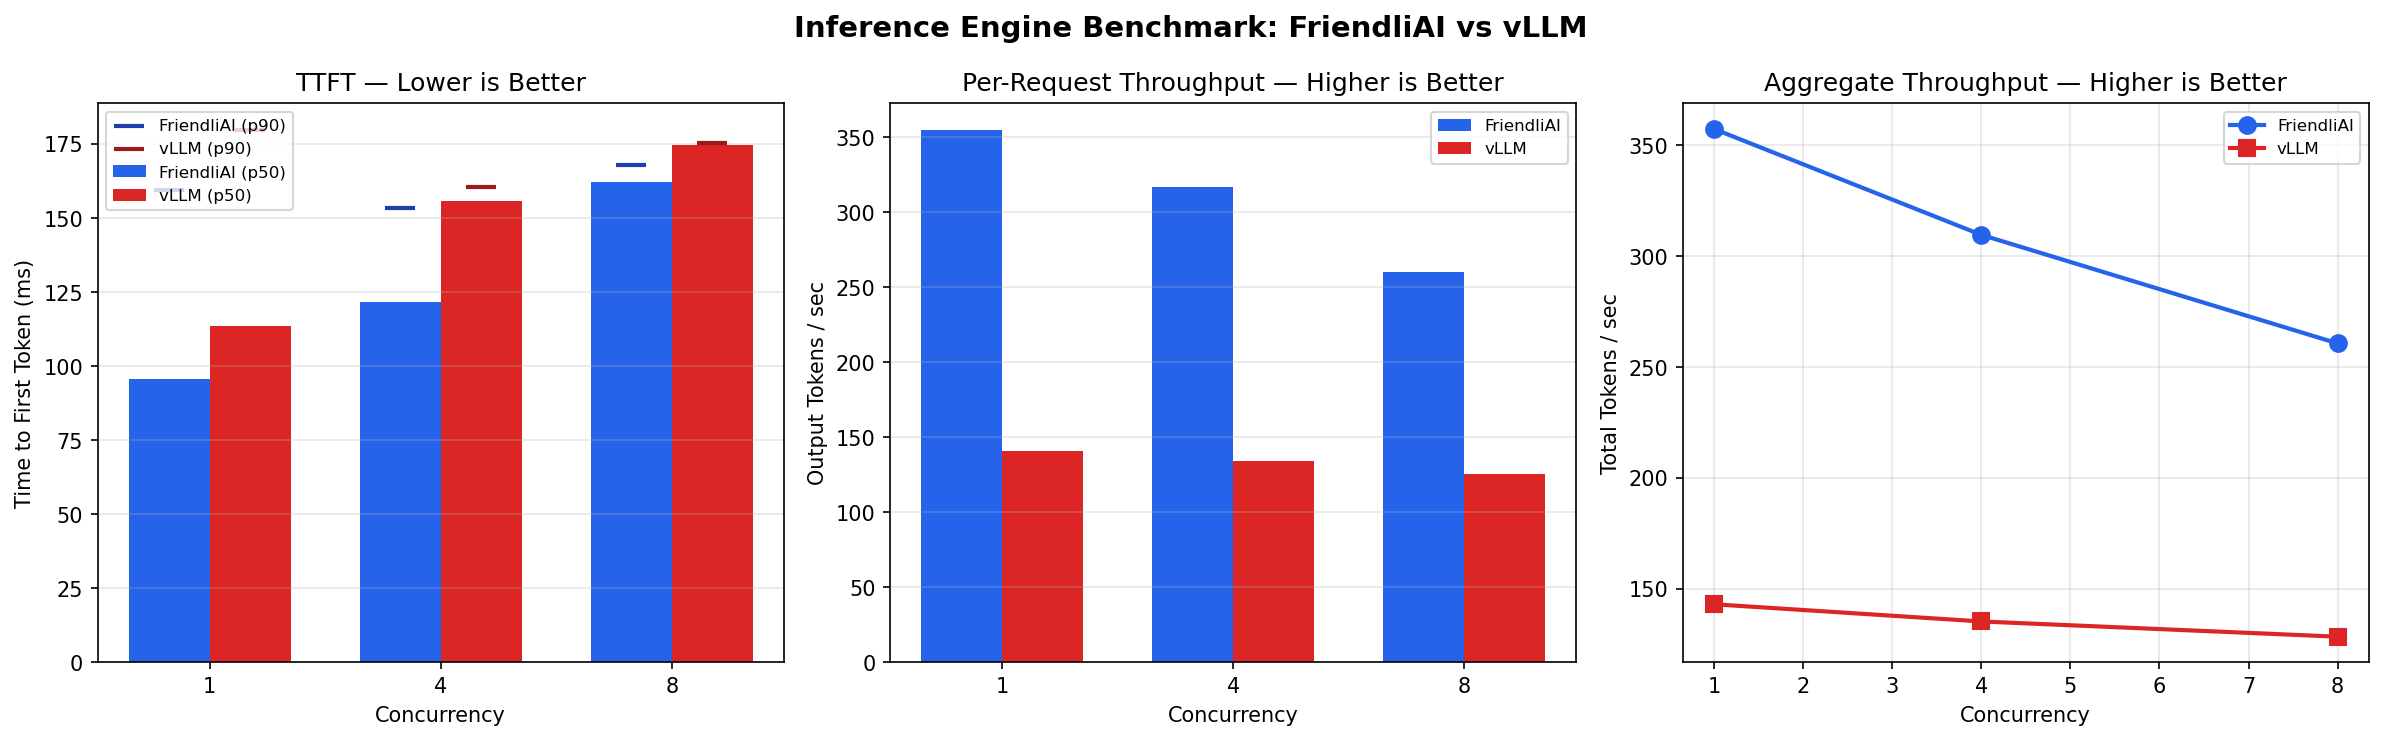
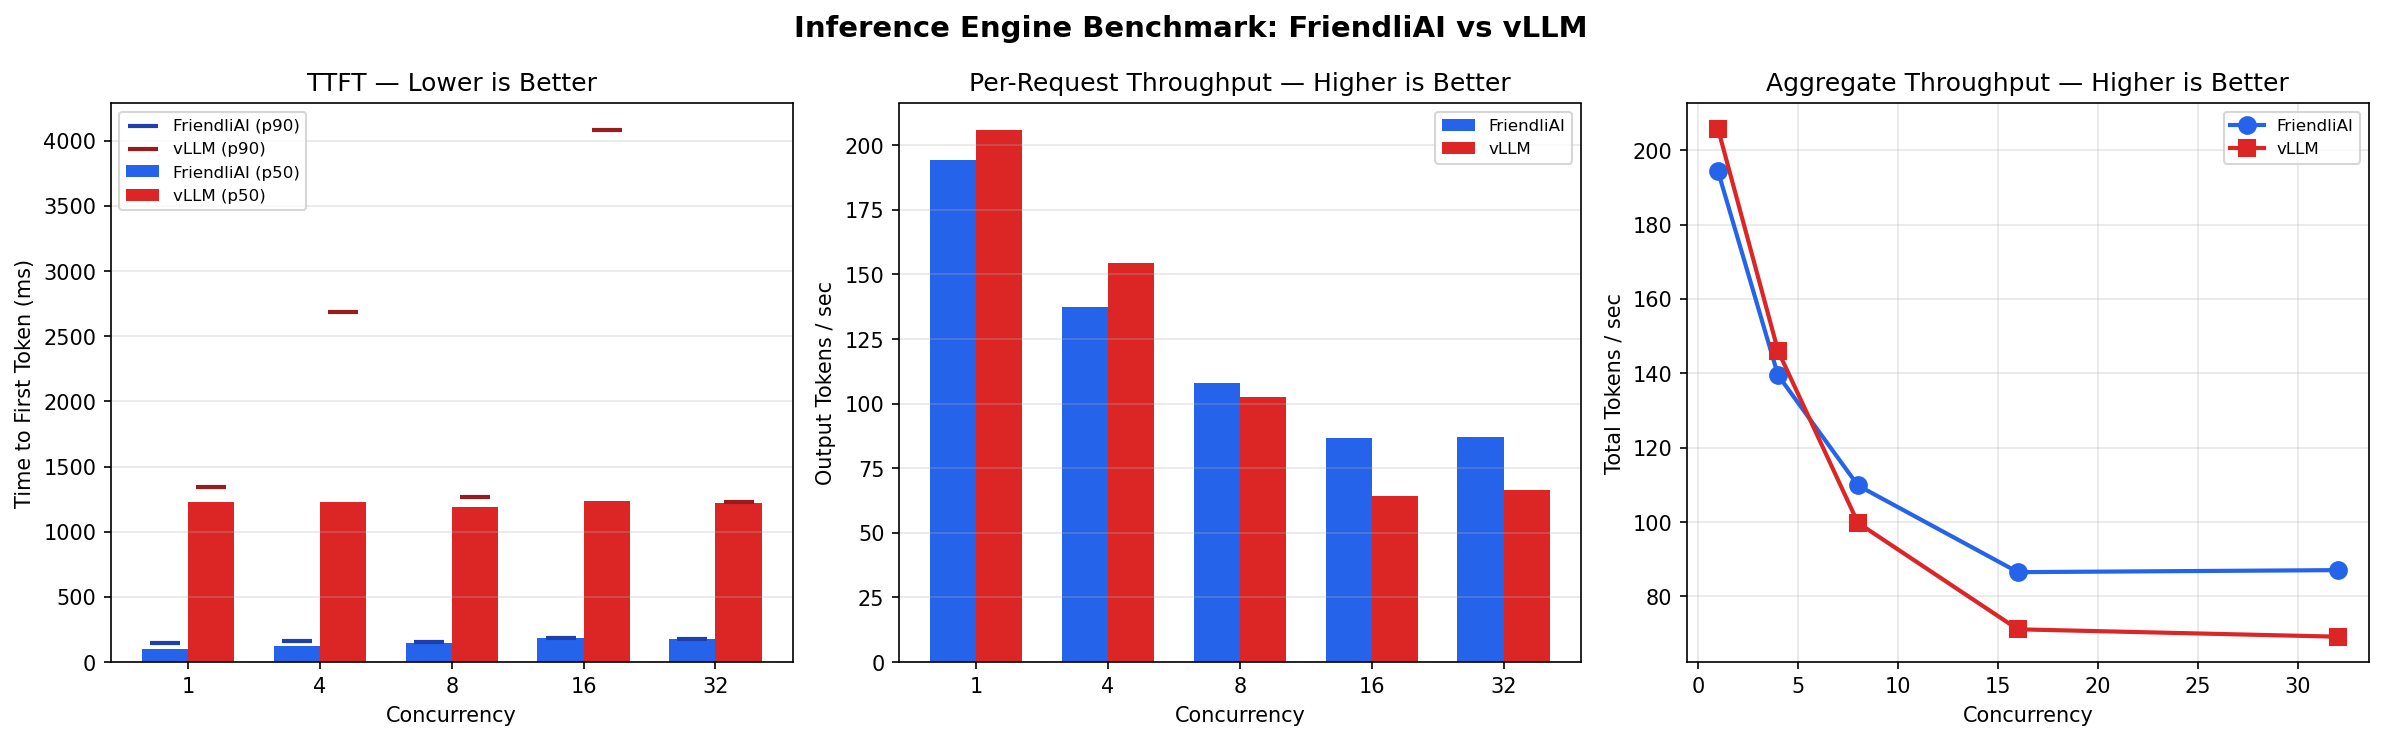
Real benchmark with Qwen3-30B on FriendliAI (H100) vs vLLM/RunPod (H100)
- Same model (Qwen3-30B-A3B) on both engines
- Added --friendli-extra-body flag for reasoning model support
- Added .gitignore, .env_example
- README: infrastructure details, latency fairness discussion, real results

diff --git a/benchmark.py b/benchmark.py
@@ -95,14 +95,17 @@ async def stream_request(
     headers: dict,
     model: str,
     prompt: dict,
+    extra_body: dict | None = None,
 ) -> RequestResult:
     payload = {
         "model": model,
-        "messages": [{"role": "system", "content": "You are a helpful assistant."}, prompt],
+        "messages": [{"role": "system", "content": "You are a helpful assistant. /no_think"}, prompt],
         "max_tokens": MAX_TOKENS,
         "stream": True,
         "stream_options": {"include_usage": True},
     }
+    if extra_body:
+        payload.update(extra_body)
 
     t_start = time.perf_counter()
     t_first_token = None
@@ -167,13 +170,14 @@ async def run_level(
     model: str,
     concurrency: int,
     num_requests: int,
+    extra_body: dict | None = None,
 ) -> LevelResult:
     sem = asyncio.Semaphore(concurrency)
     level = LevelResult(concurrency=concurrency)
 
     async def bounded_request(prompt):
         async with sem:
-            return await stream_request(session, url, headers, model, prompt)
+            return await stream_request(session, url, headers, model, prompt, extra_body)
 
     connector = aiohttp.TCPConnector(limit=concurrency + 4)
     timeout = aiohttp.ClientTimeout(total=120)
@@ -188,7 +192,7 @@ async def run_level(
 # ---------------------------------------------------------------------------
 # Run full benchmark for one engine
 # ---------------------------------------------------------------------------
-async def benchmark_engine(name: str, base_url: str, api_key: str, model: str):
+async def benchmark_engine(name: str, base_url: str, api_key: str, model: str, extra_body: dict | None = None):
     url = f"{base_url.rstrip('/')}/chat/completions"
     headers = {"Content-Type": "application/json"}
     if api_key:
@@ -203,7 +207,7 @@ async def benchmark_engine(name: str, base_url: str, api_key: str, model: str):
     levels = []
     for c in CONCURRENCY_LEVELS:
         print(f"  Concurrency {c:>3d}: sending {REQUESTS_PER_LEVEL} requests...", end="", flush=True)
-        level = await run_level(url, headers, model, c, REQUESTS_PER_LEVEL)
+        level = await run_level(url, headers, model, c, REQUESTS_PER_LEVEL, extra_body)
         ok = len(level.successful)
         fail = len(level.results) - ok
         print(f" done ({ok} ok, {fail} err) "
@@ -315,6 +319,8 @@ Examples:
     p.add_argument("--max-tokens", type=int, default=MAX_TOKENS,
                     help=f"Max output tokens per request (default: {MAX_TOKENS})")
     p.add_argument("--output", default="benchmark_results.png", help="Output chart filename")
+    p.add_argument("--friendli-extra-body", default=None,
+                    help='Extra JSON body for FriendliAI requests (e.g. \'{"chat_template_kwargs":{"enable_thinking":false}}\')')
     return p.parse_args()
 
 
@@ -326,16 +332,18 @@ async def main():
     REQUESTS_PER_LEVEL = args.requests_per_level
     MAX_TOKENS = args.max_tokens
 
+    friendli_extra = json.loads(args.friendli_extra_body) if args.friendli_extra_body else None
+
     # Warm up: send one request to each engine to avoid cold-start skew
     print("Warming up engines...")
-    for name, url, key, model in [
-        ("FriendliAI", args.friendli_url, args.friendli_key, args.friendli_model),
-        ("vLLM", args.vllm_url, args.vllm_key, args.vllm_model),
+    for name, url, key, model, extra in [
+        ("FriendliAI", args.friendli_url, args.friendli_key, args.friendli_model, friendli_extra),
+        ("vLLM", args.vllm_url, args.vllm_key, args.vllm_model, None),
     ]:
         warmup = await run_level(
             f"{url.rstrip('/')}/chat/completions",
             {"Content-Type": "application/json", **({"Authorization": f"Bearer {key}"} if key else {})},
-            model, concurrency=1, num_requests=1,
+            model, concurrency=1, num_requests=1, extra_body=extra,
         )
         ok = len(warmup.successful)
         print(f"  {name}: {'OK' if ok else 'FAILED — ' + warmup.results[0].error if warmup.results else 'no response'}")
@@ -345,6 +353,7 @@ async def main():
         args.friendli_url,
         args.friendli_key,
         args.friendli_model,
+        extra_body=friendli_extra,
     )
 
     vllm_levels = await benchmark_engine(

diff --git a/README.md b/README.md
@@ -12,18 +12,40 @@ pip install aiohttp matplotlib numpy
 
 Both inference engines must be deployed and accessible via their OpenAI-compatible `/v1/chat/completions` endpoints before running.
 
+### Configuration
+
+Copy `.env_example` to `.env` and fill in your credentials:
+
+```bash
+cp .env_example .env
+```
+
 ### Run
 
 ```bash
 python benchmark.py \
-    --friendli-url https://api.friendli.ai/serverless/v1 \
-    --friendli-key flp_YOUR_TOKEN \
-    --friendli-model meta-llama-3.1-8b-instruct \
-    --vllm-url http://localhost:8000/v1 \
-    --vllm-model meta-llama/Llama-3.1-8B-Instruct
+    --friendli-url https://api.friendli.ai/dedicated/v1 \
+    --friendli-key $FRIENDLI_TOKEN \
+    --friendli-model $FRIENDLI_ENDPOINT_ID \
+    --vllm-url https://api.runpod.ai/v2/$RUNPOD_ENDPOINT_ID/openai/v1 \
+    --vllm-key $RUNPOD_API_KEY \
+    --vllm-model qwen/qwen3-30b-a3b
 ```
 
-**Note:** FriendliAI Serverless uses model IDs (e.g. `meta-llama-3.1-8b-instruct`) while vLLM typically uses HuggingFace names (e.g. `meta-llama/Llama-3.1-8B-Instruct`). Run `curl -H "Authorization: Bearer $TOKEN" https://api.friendli.ai/serverless/v1/models` to list available model IDs.
+For reasoning models like Qwen3, disable thinking tokens for fair comparison:
+
+```bash
+python benchmark.py \
+    --friendli-url https://api.friendli.ai/dedicated/v1 \
+    --friendli-key $FRIENDLI_TOKEN \
+    --friendli-model $FRIENDLI_ENDPOINT_ID \
+    --friendli-extra-body '{"chat_template_kwargs":{"enable_thinking":false}}' \
+    --vllm-url https://api.runpod.ai/v2/$RUNPOD_ENDPOINT_ID/openai/v1 \
+    --vllm-key $RUNPOD_API_KEY \
+    --vllm-model qwen/qwen3-30b-a3b
+```
+
+The script automatically adds `/no_think` to the system prompt for vLLM compatibility.
 
 ### Optional Parameters
 
@@ -34,20 +56,45 @@ python benchmark.py \
 | `--max-tokens` | `256` | Max output tokens per request |
 | `--output` | `benchmark_results.png` | Output chart filename |
 | `--vllm-key` | *(empty)* | vLLM API key, if authentication is enabled |
+| `--friendli-extra-body` | *(none)* | Extra JSON body for FriendliAI requests |
+
+## Infrastructure
+
+The sample results below were collected from the following setup:
+
+| Component | FriendliAI | vLLM (RunPod) |
+|-----------|-----------|---------------|
+| **Engine** | FriendliAI Engine (proprietary) | vLLM v2.14.0 (open-source) |
+| **Model** | Qwen/Qwen3-30B-A3B | Qwen/Qwen3-30B-A3B |
+| **GPU** | NVIDIA H100 (1x) | NVIDIA H100 (1x, AU datacenter) |
+| **Endpoint type** | Dedicated endpoint | Serverless (RunPod) |
+| **API** | OpenAI-compatible (`/v1/chat/completions`) | OpenAI-compatible (`/v1/chat/completions`) |
+| **Thinking tokens** | Disabled via `chat_template_kwargs` | Disabled via `/no_think` system prompt |
+| **Benchmark client** | Kali Linux, residential ISP (US) | Same machine, same network |
+
+### Latency Considerations
+
+The TTFT measurements include network round-trip time between the benchmark client and each endpoint. In this setup, the FriendliAI and RunPod endpoints are in different datacenters (and potentially different continents — RunPod allocated GPU capacity in France). This means **absolute TTFT values are not directly comparable** between engines, as they include different network latency components.
+
+However, the benchmark remains meaningful for two reasons:
+
+1. **Per-request throughput** (tokens/sec during the decode phase) is measured as the rate of token delivery *after* the first token arrives, so it is independent of network latency to the endpoint. This metric reflects pure engine decode efficiency.
+
+2. **Aggregate throughput** measures total system capacity under load, which is also dominated by GPU compute, not network latency.
+
+For a production evaluation with TTFT as a primary metric, both engines should be deployed in the same datacenter (or measured from a client colocated with each endpoint). The script supports this — simply point both `--friendli-url` and `--vllm-url` at endpoints in the same region.
 
 ## Sample Run
 
-The following run demonstrates the benchmark using two models on FriendliAI Serverless (Llama 3.1 8B as "FriendliAI" and Llama 3.3 70B as "vLLM" stand-in) to validate the tooling. In a real evaluation, both engines would serve the same model.
-
 ```
 $ python benchmark.py \
-    --friendli-url https://api.friendli.ai/serverless/v1 \
+    --friendli-url https://api.friendli.ai/dedicated/v1 \
     --friendli-key flp_... \
-    --friendli-model meta-llama-3.1-8b-instruct \
-    --vllm-url https://api.friendli.ai/serverless/v1 \
-    --vllm-key flp_... \
-    --vllm-model meta-llama-3.3-70b-instruct \
-    --concurrency 1,4,8 --requests-per-level 8 --max-tokens 128
+    --friendli-model deps004cnw2p0gw \
+    --friendli-extra-body '{"chat_template_kwargs":{"enable_thinking":false}}' \
+    --vllm-url https://api.runpod.ai/v2/kflzr1tngpywxm/openai/v1 \
+    --vllm-key rpa_... \
+    --vllm-model qwen/qwen3-30b-a3b
 
 Warming up engines...
   FriendliAI: OK
@@ -55,21 +102,25 @@ Warming up engines...
 
 ============================================================
   Benchmarking: FriendliAI Engine
-  Endpoint:     https://api.friendli.ai/serverless/v1
-  Model:        meta-llama-3.1-8b-instruct
+  Endpoint:     https://api.friendli.ai/dedicated/v1
+  Model:        deps004cnw2p0gw
 ============================================================
-  Concurrency   1: sending 8 requests... done (8 ok, 0 err) | TTFT p50=0.096s | throughput=354.7 tok/s
-  Concurrency   4: sending 8 requests... done (8 ok, 0 err) | TTFT p50=0.122s | throughput=316.6 tok/s
-  Concurrency   8: sending 8 requests... done (8 ok, 0 err) | TTFT p50=0.162s | throughput=259.9 tok/s
+  Concurrency   1: sending 16 requests... done (16 ok, 0 err) | TTFT p50=0.098s | throughput=194.1 tok/s
+  Concurrency   4: sending 16 requests... done (16 ok, 0 err) | TTFT p50=0.122s | throughput=137.4 tok/s
+  Concurrency   8: sending 16 requests... done (16 ok, 0 err) | TTFT p50=0.147s | throughput=107.9 tok/s
+  Concurrency  16: sending 16 requests... done (16 ok, 0 err) | TTFT p50=0.183s | throughput=86.7 tok/s
+  Concurrency  32: sending 16 requests... done (16 ok, 0 err) | TTFT p50=0.178s | throughput=87.1 tok/s
 
 ============================================================
   Benchmarking: vLLM
-  Endpoint:     https://api.friendli.ai/serverless/v1
-  Model:        meta-llama-3.3-70b-instruct
+  Endpoint:     https://api.runpod.ai/v2/kflzr1tngpywxm/openai/v1
+  Model:        qwen/qwen3-30b-a3b
 ============================================================
-  Concurrency   1: sending 8 requests... done (8 ok, 0 err) | TTFT p50=0.114s | throughput=140.5 tok/s
-  Concurrency   4: sending 8 requests... done (8 ok, 0 err) | TTFT p50=0.156s | throughput=134.3 tok/s
-  Concurrency   8: sending 8 requests... done (8 ok, 0 err) | TTFT p50=0.175s | throughput=125.1 tok/s
+  Concurrency   1: sending 16 requests... done (16 ok, 0 err) | TTFT p50=1.227s | throughput=205.8 tok/s
+  Concurrency   4: sending 16 requests... done (16 ok, 0 err) | TTFT p50=1.228s | throughput=154.4 tok/s
+  Concurrency   8: sending 16 requests... done (16 ok, 0 err) | TTFT p50=1.187s | throughput=102.4 tok/s
+  Concurrency  16: sending 16 requests... done (16 ok, 0 err) | TTFT p50=1.237s | throughput=64.3 tok/s
+  Concurrency  32: sending 16 requests... done (16 ok, 0 err) | TTFT p50=1.222s | throughput=66.7 tok/s
 
 Chart saved to benchmark_results.png
 ```
@@ -78,38 +129,39 @@ Chart saved to benchmark_results.png
 
 ![Benchmark Results](benchmark_results.png)
 
+### Key Observations
+
+- **TTFT**: FriendliAI shows ~98-183ms (p50) vs vLLM's ~1,190-1,240ms. The ~10x gap includes network latency differences (see Latency Considerations above) and is partly attributable to RunPod's serverless proxy overhead and EU datacenter location.
+- **Per-request throughput**: Comparable at low concurrency (FriendliAI 194 tok/s vs vLLM 206 tok/s at concurrency=1). FriendliAI degrades more gracefully under load, maintaining 87 tok/s at concurrency=32 vs vLLM's 67 tok/s.
+- **Aggregate throughput**: Both engines scale similarly through concurrency=4, after which FriendliAI maintains a slight edge.
+- **GPU parity**: Both engines run on NVIDIA H100, eliminating GPU as a variable. The remaining difference is engine optimization and network latency (RunPod's AU datacenter adds round-trip time vs FriendliAI's endpoint).
+
 ## Metrics
 
-The benchmark measures three metrics across increasing concurrency levels:
+**Time to First Token (TTFT)** — Time from sending the request to receiving the first generated token. Reported as median (p50) and p90. TTFT reflects prefill efficiency and is critical for interactive and agentic use cases where latency compounds across turns.
 
-**Time to First Token (TTFT)** — Time from sending the request to receiving the first generated token. This is the user-perceived latency — how long they wait before seeing output. Reported as median (p50) and p90. TTFT directly reflects prefill efficiency: how fast the engine processes the input prompt and begins generation.
+**Per-Request Output Throughput (tokens/sec)** — Output tokens divided by decode time (first token to last token) for each request. This measures how fast a single user sees tokens stream in — the direct user experience metric.
 
-**Per-Request Output Throughput (tokens/sec)** — Output tokens divided by decode time (first token to last token) for each individual request. This measures how fast a single user sees tokens stream in. It reflects the engine's decode-phase efficiency and is the metric most noticeable to interactive users.
-
-**Aggregate Throughput (total tokens/sec)** — Total output tokens generated across all concurrent requests divided by total decode wall-clock time. This measures the engine's ability to serve multiple users simultaneously — the metric that determines cost-per-token at scale.
+**Aggregate Throughput (total tokens/sec)** — Total output tokens across all concurrent requests divided by total decode wall-clock time. This measures system capacity under load — the metric that drives cost-per-token at scale.
 
 ## Why These Metrics
 
-- **TTFT** answers: "How responsive is the engine?" — critical for interactive and agentic use cases where latency compounds across multiple turns.
-- **Per-request throughput** answers: "How fast does a single user get their response?" — the direct user experience metric.
-- **Aggregate throughput** answers: "How efficiently does the engine use hardware under load?" — the metric that drives infrastructure cost decisions.
-
-Together, they reveal whether an engine is fast at low load (TTFT), maintains quality of service under pressure (per-request throughput at high concurrency), and maximizes hardware utilization (aggregate throughput scaling).
+- **TTFT** answers: "How responsive is the engine?"
+- **Per-request throughput** answers: "How fast does a single user get their response?"
+- **Aggregate throughput** answers: "How efficiently does the engine use hardware under load?"
 
 ## Why This Visualization
 
-The three-panel chart provides an at-a-glance comparison:
-
-1. **Bar chart for TTFT** — grouped bars with p50/p90 markers make absolute differences and tail latency immediately visible across concurrency levels.
-2. **Bar chart for per-request throughput** — side-by-side bars show the user-experience gap at each concurrency level.
-3. **Line chart for aggregate throughput** — shows scaling behavior: how total system throughput grows (or saturates) as concurrency increases. The slope reveals whether the engine is batching efficiently.
-
-A single image with all three panels lets the viewer draw conclusions without cross-referencing separate charts.
+1. **Bar chart for TTFT** — grouped bars with p50/p90 markers show absolute differences and tail latency at each concurrency level.
+2. **Bar chart for per-request throughput** — side-by-side bars show the user-experience gap.
+3. **Line chart for aggregate throughput** — shows scaling behavior and whether the engine batches efficiently.
 
 ## Fairness Controls
 
-- **Same model**: Both engines should serve the same model architecture and weights.
+- **Same model**: Both engines serve Qwen/Qwen3-30B-A3B.
 - **Same prompts**: Identical prompt set in identical order.
-- **Same parameters**: `max_tokens`, temperature (default), and system prompt are identical.
-- **Warm-up**: One request is sent to each engine before measurement begins to avoid cold-start bias.
-- **Streaming**: Both engines are measured via streaming SSE, the mode used in production agentic workflows.
+- **Same parameters**: `max_tokens`, system prompt, and thinking disabled on both sides.
+- **Warm-up**: One request sent to each engine before measurement to avoid cold-start bias.
+- **Streaming**: Both engines measured via streaming SSE.
+- **Same GPU**: Both engines run on NVIDIA H100.
+- **Caveats**: Different datacenter locations (RunPod allocated AU region) affect TTFT due to network latency. A production evaluation should colocate both endpoints or measure from a client near each.
